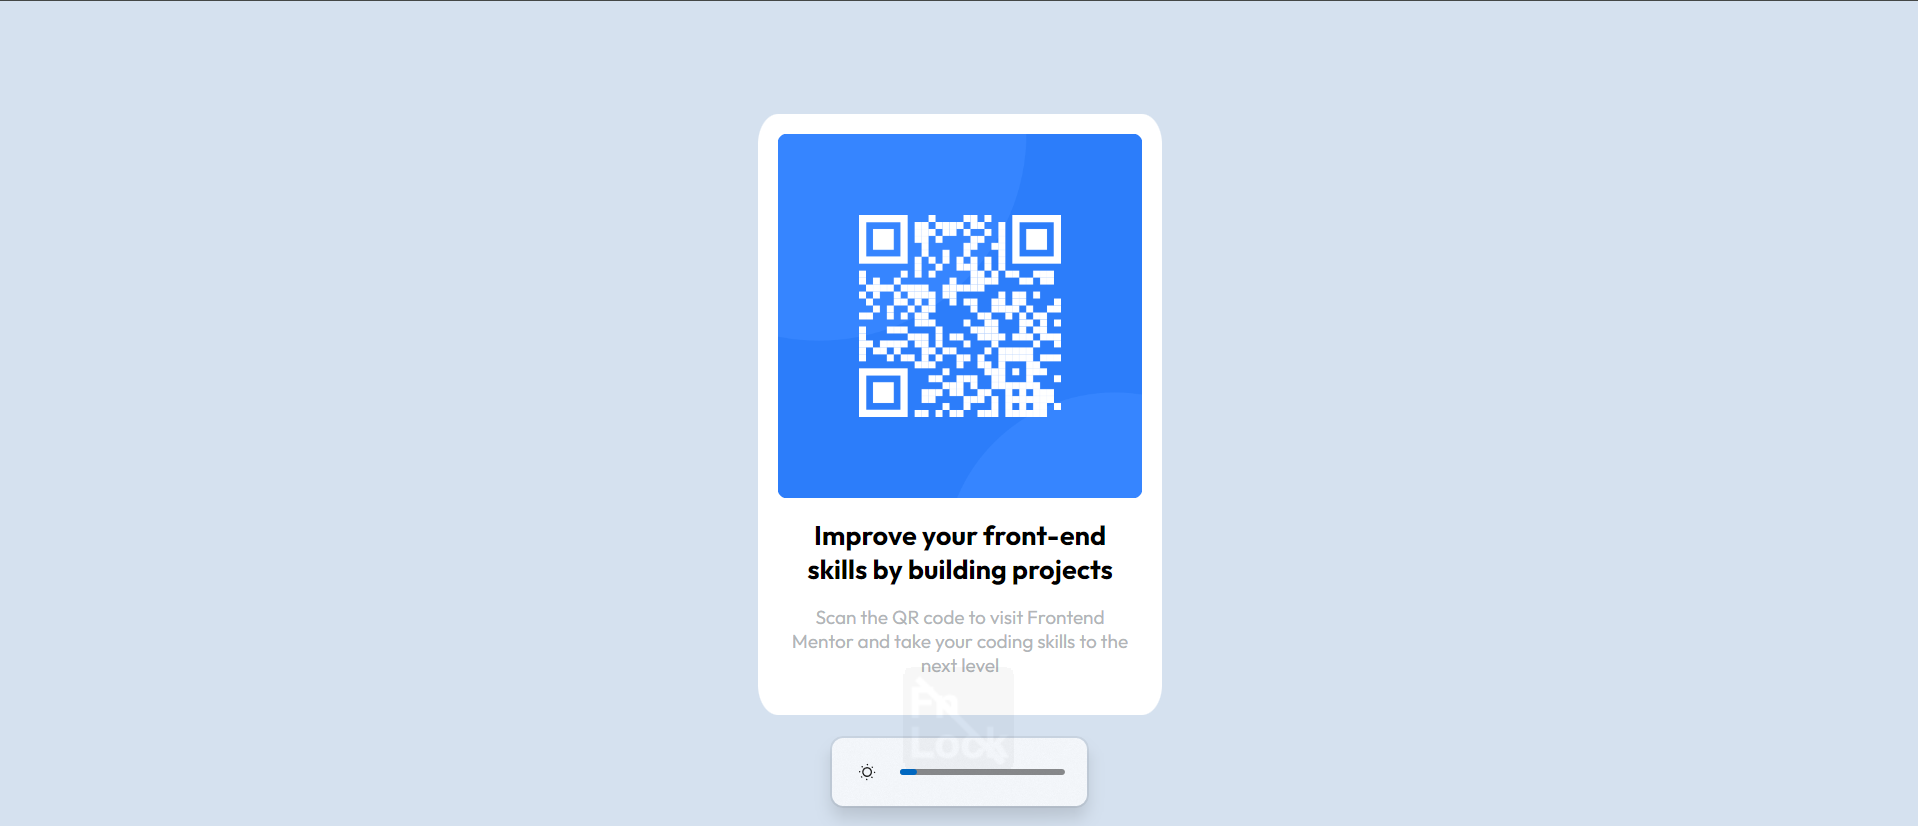
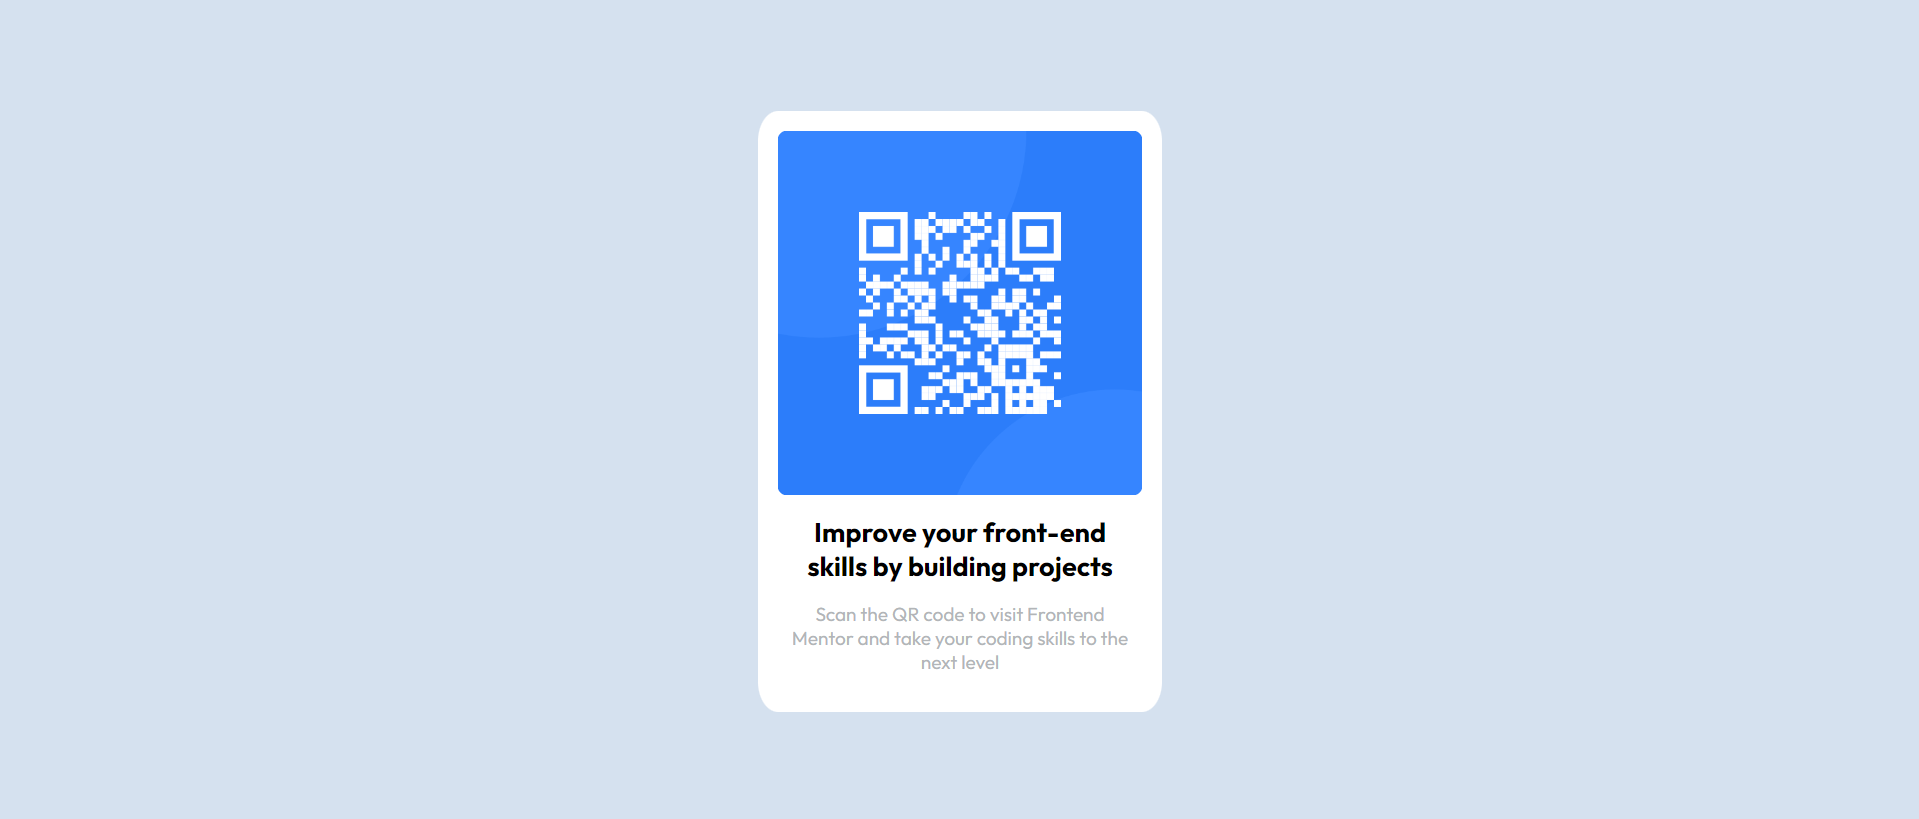
had a better screenshot

diff --git a/README.md b/README.md
@@ -19,10 +19,7 @@ This is a solution to the [QR code component challenge on Frontend Mentor](https
 
 ### Screenshot
 
-![](images\Result.png)
-
-
-**Note: Delete this note and the paragraphs above when you add your screenshot. If you prefer not to add a screenshot, feel free to remove this entire section.**
+![](./images/Result.png)
 
 ### Links
 
